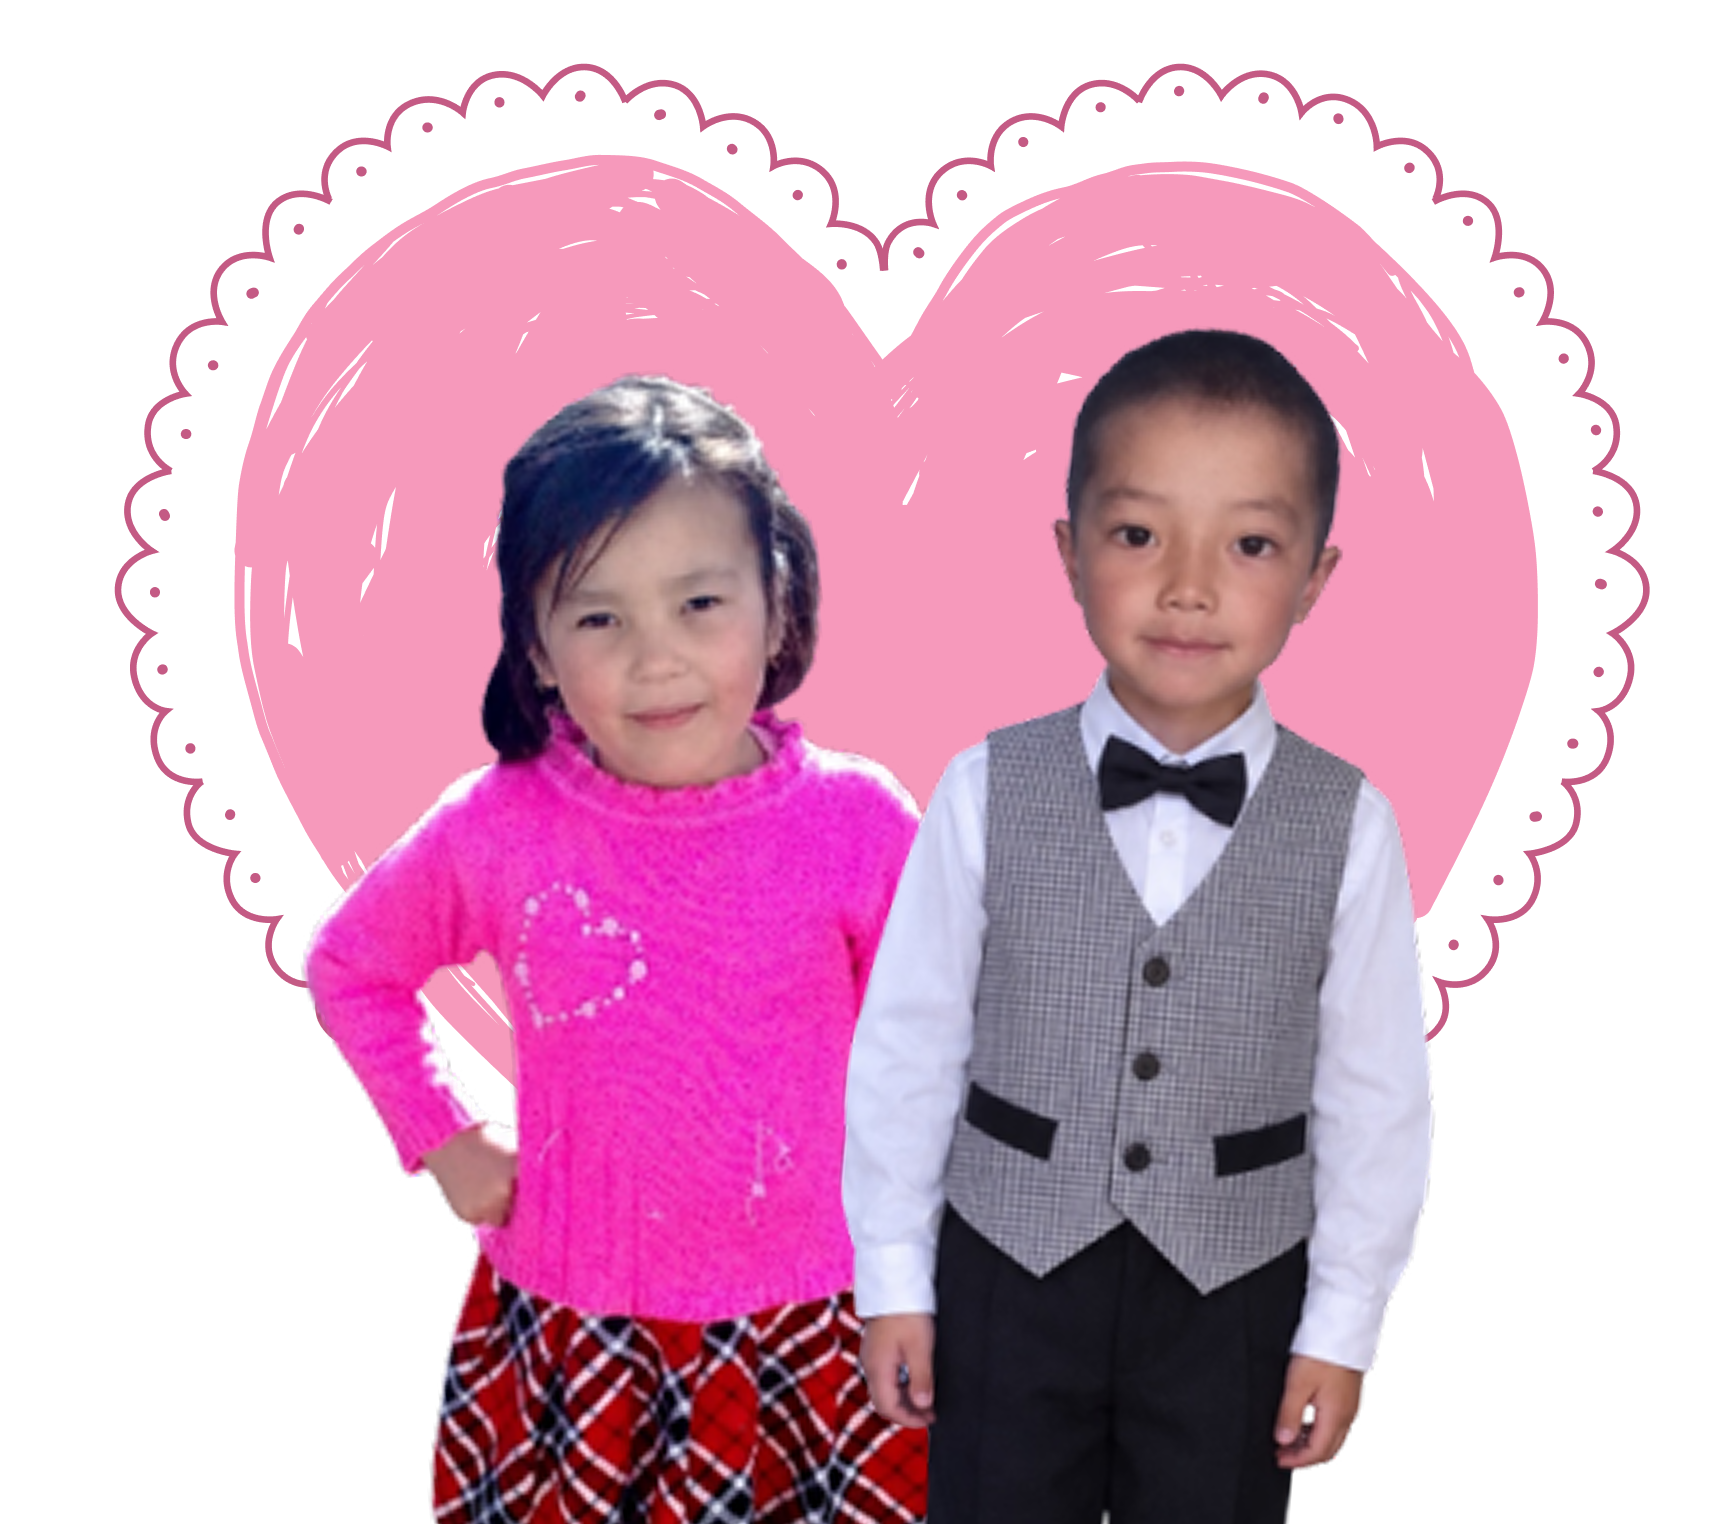
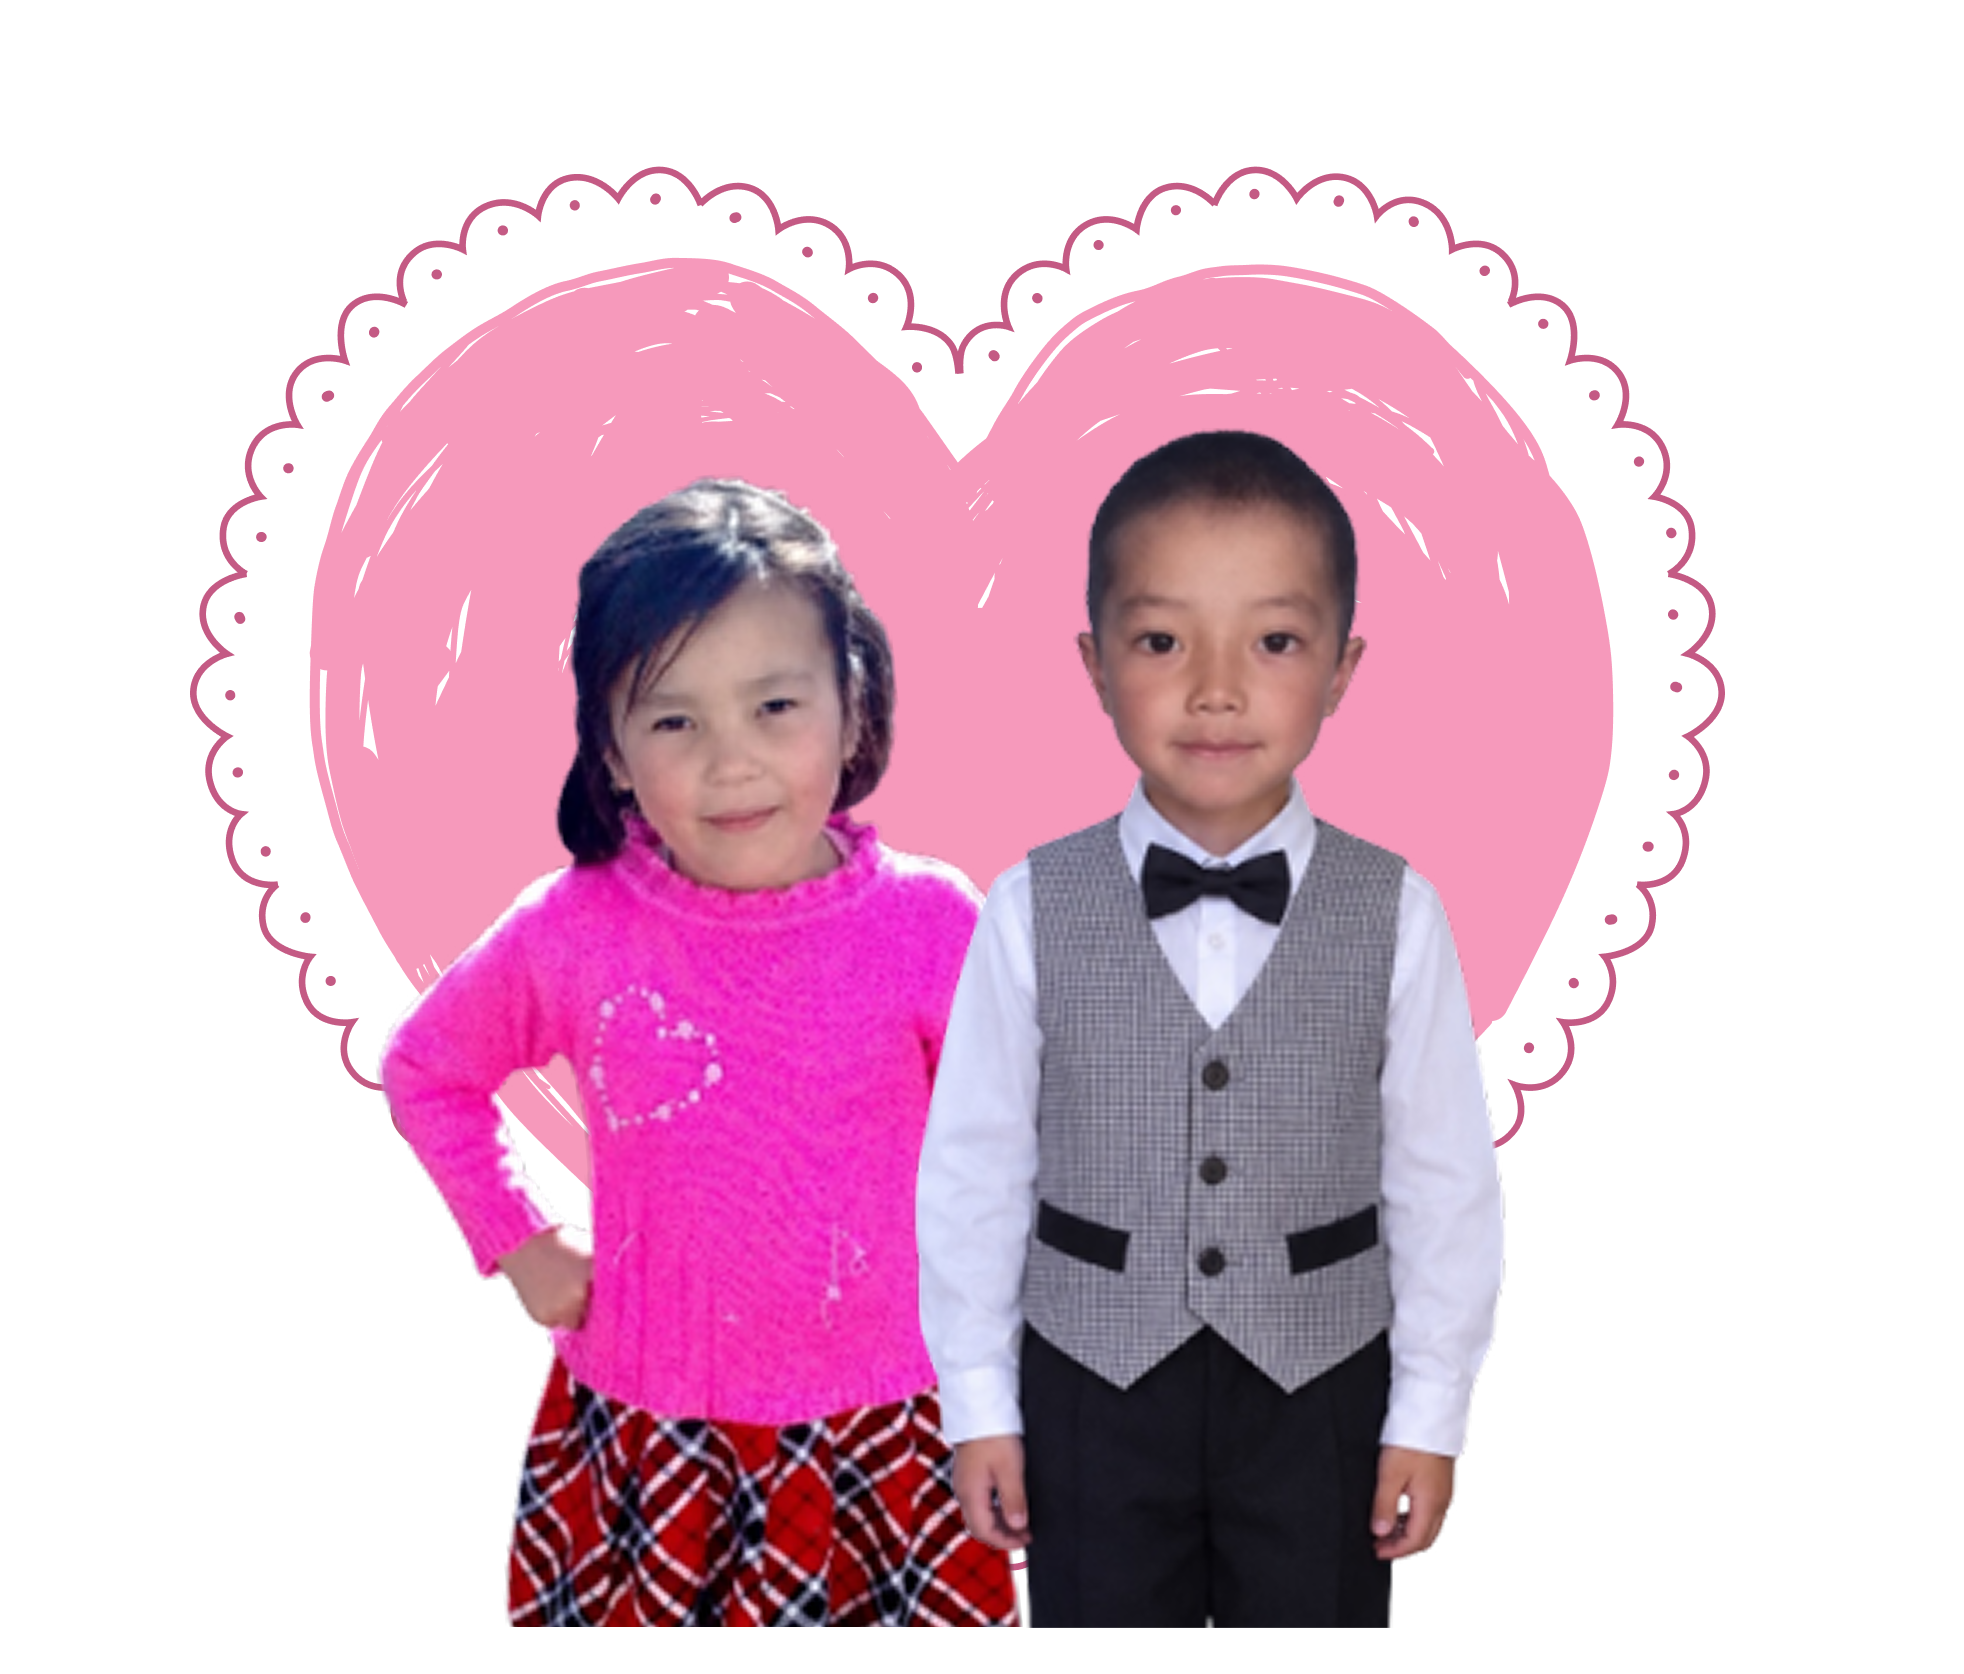
Changed everything

diff --git a/index.html b/index.html
@@ -54,7 +54,7 @@
 
         <img
             class="envelope-part envelope-top"
-            src="assets/images/envelope-top.png"
+            src="assets/images/open.png"
             alt=""
         >
 
@@ -74,8 +74,8 @@
         >
 
             <img
-                src="assets/images/wax-seal.png"
-                alt=""
+                src="assets/images/wax2.png"
+                alt="" 
             >
 
         </button>
@@ -204,7 +204,7 @@
 
                     <p class="wedding-text">
 
-                        Сиздерди балдарыбыз Сыймык менен Жайнагүлдүн үйлөнүү үлпөт тоюна арналган салтанаттуу кечеге келип ак дасторкондун үстүндө даам татып, Ак батаңыздарды берип кадырлууу коногубуз болуп кетүүгө чакырабыз!
+                        Сиздерди балдарыбыз Сыймык менен Жайнагүлдүн үйлөнүү үлпөт тоюна арналган салтанаттуу кечеге келип ак дасторкондун үстүндө даам татып, Ак батаңыздарды берип кадырлуу  коногубуз болуп кетүүгө чакырабыз!
 
                     </p>
                     <img
@@ -257,7 +257,7 @@
 
                     <h2>
                         <br>
-                        БИЗДИН МЕРЕКЕГЕ 
+                        БИЗДИН АЗЕМГЕ
                         ЧЕЙИН:
                         <br>
                     </h2>
@@ -531,7 +531,7 @@
 
 
         <h2 class="section-title">
-            КҮНДҮН ПРОГРАММАСЫ
+            КҮНДҮН ТАРТИБИ
         </h2>
 
 
@@ -657,6 +657,11 @@
 
 </section>
 
+    <img
+        class="wave wave-top"
+        src="assets/images/flowers.png"
+        alt=""
+    >
 
 
 
@@ -742,48 +747,43 @@
         <div class="container">
 
 
-            <!-- <img
+            <img
                 class="glasses img-fluid"
-                src="assets/images/glasses.png"
+                src="assets/images/flow.svg"
+                alt=""
+            > 
+
+            
+
+
+            <h4 class="your-style3">
+            Турмуш жолун басып өтүүгө,
+            <br> 
+            Чын жүрөктөн койдук ак ниет.
+            <br> 
+            Күбө болуп нике тойго келиңиз,
+            <br> 
+            Бакыт тилеп, батаңызды бериңиз!
+            <br> 
+            <img
+                class="divider img-fluid"
+                src="assets/images/divider.png"
+                alt=""
+            >
+            <br> <br> <br> 
+            
+
+            <!-- <img
+                class="divider img-fluid"
+                src="assets/images/divider.png"
                 alt=""
             > -->
+            
+    </h4>
 
 
-            <p class="section-number light">
-                06
-            </p>
+            
 
-
-            <h2>
-                ПОДАРКИ
-            </h2>
-
-
-            <p>
-
-                Ваше присутствие —
-
-                <br>
-
-                самый важный подарок для нас!
-
-                <br><br>
-
-                Но если вы захотите
-
-                <br>
-
-                порадовать нас чем-то ещё,
-
-                <br>
-
-                мы будем рады вашему вкладу
-
-                <br>
-
-                в бюджет нашей молодой семьи.
-
-            </p>
 
 
         </div>
@@ -1088,7 +1088,7 @@
         class="music-sticker-center"
         id="musicStickerText"
     >
-        ПАУЗА
+        ТОКТОТ
     </span>
 
 </button>
@@ -1124,6 +1124,7 @@
 
 
 </main>
+
 
 
 

diff --git a/style.css b/style.css
@@ -8,6 +8,27 @@
     font-style: normal;
 }
 
+@font-face {
+    font-family: "monika";
+    src: url("assets/font/KG_Monika_0.ttf");
+    font-weight: 400;
+    font-style: normal;
+}
+
+@font-face {
+    font-family: "Riztteen";
+    src: url("assets/font/ofont.ru_Kunstler.ttf");
+    font-weight: 400;
+    font-style: normal;
+}
+@font-face {
+    font-family: "Script";
+    src: url("assets/font/ofont.ru_Sweet\ Mavka\ Script.ttf");
+    font-weight: 400;
+    font-style: normal;
+}
+
+
 
 .your-style{
   font-family: "Old Standard TT", serif;
@@ -23,9 +44,20 @@
   color: var(--heading);
 }
 
-.your-style2{
-    font-family: 'Times New Roman', Times, serif;
-    font-weight: bold;
+
+
+
+.your-style3 {
+    position: relative;
+
+    z-index: 2;
+    margin: 0 0 0;
+
+    font-family: "monika";
+
+    letter-spacing: 2px;
+
+    font-size: 26px;
 }
 
 
@@ -712,36 +744,40 @@ section {
     background: var(--accent);
 
     color: white;
-}
+    position: relative;
 
+    overflow: hidden;
+    width: 440;
+    gap: 2px;
+}
+.gift-section .container {
+    margin-top: 0px;
+    position: relative;
+    z-index: 1;
+
+}
 
 .glasses {
+    position: absolute;
+
     width: 100%;
 
-    max-width: 230px;
+    max-width: 200px;
 
-    margin-bottom: 25px;
+    height: auto;
+
+    bottom: -30px; /* move down */
+
+    right: -20px; /* move left */
+
+    margin: 0;
+
+    z-index: 1;
+
+    pointer-events: none;
 }
 
 
-.gift-section h2 {
-    font-size: 20px;
-
-    font-weight: 500;
-
-    letter-spacing: 2px;
-
-    margin-bottom: 25px;
-}
-
-
-.gift-section p:not(.section-number) {
-    font-family: Arial, sans-serif;
-
-    font-size: 12px;
-
-    line-height: 1.9;
-}
 
 
 /* =========================
@@ -827,6 +863,12 @@ section {
 .dress-heart {
     width: 45px;
 }
+
+.divider {
+    width: 200px;
+
+}
+
 
 
 /* =========================
@@ -982,9 +1024,9 @@ section {
     transform:
         translate(-50%, -50%);
 
-    width: 90px;
+    width: 220px;
 
-    height: 90px;
+    height: 220px;
 
     border: none;
 
@@ -1437,9 +1479,9 @@ section {
 .music-text-circle text {
     fill: #b5667c;
 
-    font-size: 14px;
+    font-size: 16px;
 
-    font-weight: 600;
+    font-weight: 900;
 
     letter-spacing: 1px;
 }
@@ -1468,7 +1510,7 @@ section {
 
     border-radius: 50%;
 
-    background: #b5667c;
+    background: #91304c;
 
     color: white;
 
